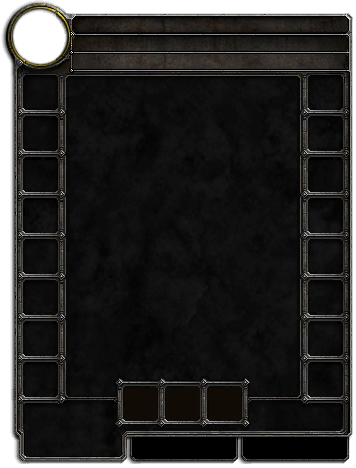
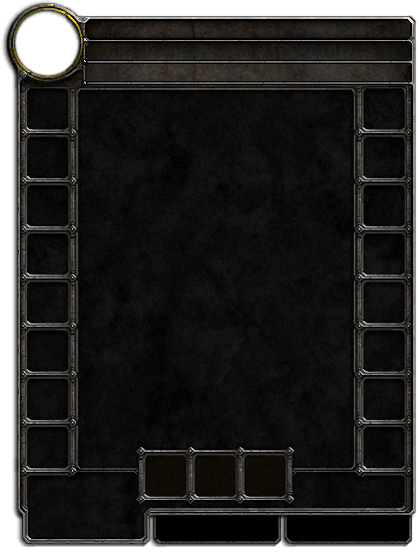
wcf_revision_nr = [198] 'Update info char'

diff --git a/themes/templates/wcf.css b/themes/templates/wcf.css
@@ -35,7 +35,7 @@ IMG.sell      {width: 20px;}
 IMG.auction   {width: 32px;}
 div.auction   {FONT-SIZE: 12; font-weight: 800;}
 IMG.set       {width: 24px;}
-IMG.armory    {width: 38px;}
+IMG.armory    {width: 43px;}
 div.armory    {font-size: 14; font-weight: 800;}
 IMG.guildb    {width: 39px;}
 div.guildb    {font-size: 14; font-weight: 800;}

diff --git a/include/functions.php b/include/functions.php
@@ -116,7 +116,7 @@
 		{
 			global $_SESSION;
 			selectdb(characters_r.$_SESSION['realmd_id']);
- 			$data = db_assoc(db_query("SELECT $fields FROM `character_stats` WHERE `guid`='".$character_id."'"));
+ 			$data = db_assoc(db_query("SELECT * FROM `character_stats` WHERE `guid`='".$character_id."'"));
 			if ($data) { return $data; } else { return false; }		
 		}
 
@@ -273,17 +273,47 @@
 			if ($item_data = get_item_data($guid)) { show_item_by_data($item_data, $style, $posx, $posy); }
 		}
 
-	function show_item_from_char($id, $guid, $style='item', $posx=0, $posy=0)
+	function empty_show_item_from_char($style='item', $posx=0, $posy=0, $empty_item="")
+		{
+ 			switch ($empty_item): 
+				case ("head"):  	$icon = IMAGES_PI."empty_icon/head.png";   	break;
+				case ("neck"):  	$icon = IMAGES_PI."empty_icon/neck.png";   	break;
+				case ("shoulder"):  	$icon = IMAGES_PI."empty_icon/shoulder.png";   	break;
+				case ("back"):  	$icon = IMAGES_PI."empty_icon/back.png";   	break;
+				case ("chest"):  	$icon = IMAGES_PI."empty_icon/chest.png";   	break;
+				case ("shirt"):  	$icon = IMAGES_PI."empty_icon/shirt.png";   	break;
+				case ("tabard"):  	$icon = IMAGES_PI."empty_icon/tabard.png";   	break;
+				case ("wrist"):  	$icon = IMAGES_PI."empty_icon/wrist.png";   	break;
+				case ("gloves"):  	$icon = IMAGES_PI."empty_icon/gloves.png";   	break;
+				case ("belt"):  	$icon = IMAGES_PI."empty_icon/belt.png";   	break;
+				case ("legs"):  	$icon = IMAGES_PI."empty_icon/legs.png";   	break;
+				case ("feet"):  	$icon = IMAGES_PI."empty_icon/feet.png";   	break;
+				case ("finger"):  	$icon = IMAGES_PI."empty_icon/finger.png";   	break;
+				case ("trinket"):  	$icon = IMAGES_PI."empty_icon/trinket.png";   	break;
+				case ("main"):  	$icon = IMAGES_PI."empty_icon/main.png";   	break;
+				case ("off"):  		$icon = IMAGES_PI."empty_icon/off.png";   	break;
+				case ("ranged"):  	$icon = IMAGES_PI."empty_icon/ranged.png";   	break;
+			endswitch;
+
+			if ($posx OR $posy) { $position.= 'style="position: absolute; left: '.$posx.'px; top: '.$posy.'px; border: 0px;"'; }
+			if (empty($position)) { $position = "style=\"position: relative; left: 0px;top: 0px; border: 0px;float: left;\""; }
+			echo"\n<div class=$style $position><img class='".$style."' src='".$icon."'></div>";
+		}
+
+	function show_item_from_char($id, $guid, $style='item', $posx=0, $posy=0, $empty_item)
 		{
 			global $_SESSION;
-			if ($id == 0) {  return; }
-			selectdb(characters_r.$_SESSION['realmd_id']);
-			$item_data = db_assoc(db_query("SELECT `guid` FROM `item_instance`
-							WHERE `owner_guid`='".$guid."' AND (SUBSTRING_INDEX( SUBSTRING_INDEX(`data` , ' ' , 9) , ' ' , -1 )+0)='".$guid."' AND (SUBSTRING_INDEX( SUBSTRING_INDEX(`data` , ' ' , 4) , ' ' , -1 )+0)='".$id."'"));
-
-			reset($item_data);
-			$item_data =  current($item_data);
-			if ($item_data = get_item_data($item_data)) { show_item_by_data($item_data, $style, $posx, $posy); }
+			if ($id != 0)
+				{
+					selectdb(characters_r.$_SESSION['realmd_id']);
+					$item_data = db_assoc(db_query("SELECT `guid` FROM `item_instance`
+									WHERE `owner_guid`='".$guid."' AND (SUBSTRING_INDEX( SUBSTRING_INDEX(`data` , ' ' , 9) , ' ' , -1 )+0)='".$guid."' AND (SUBSTRING_INDEX( SUBSTRING_INDEX(`data` , ' ' , 4) , ' ' , -1 )+0)='".$id."'"));
+		
+					reset($item_data);
+					$item_data =  current($item_data);
+					if ($item_data = get_item_data($item_data)) { show_item_by_data($item_data, $style, $posx, $posy); }
+				}
+			else { empty_show_item_from_char($style, $posx, $posy, $empty_item); }
 		}
 
 	//======================================================================================================

diff --git a/include/include_characters_3d.php b/include/include_characters_3d.php
@@ -45,7 +45,7 @@
 function show_player_3d($char, $char_data){
 ?>
  <div id="model_scene" align="center">
- <object id="wowhead" type="application/x-shockwave-flash" data="http://static.wowhead.com/modelviewer/ModelView.swf" height="300px" width="230px"> 
+ <object id="wowhead" type="application/x-shockwave-flash" data="http://static.wowhead.com/modelviewer/ModelView.swf" height="353px" width="273px"> 
  <param name="quality" value="high">
  <param name="allowscriptaccess" value="always">
  <param name="menu" value="false">

diff --git a/acp/show_character.php b/acp/show_character.php
@@ -17,7 +17,7 @@
 	$guid = intval(@$_REQUEST['player']);
 	$tab  = @$_REQUEST['tab'];
 	$char = get_character($guid);
-	//$char_stats = get_character_stats($guid);
+	$char_stats = get_character_stats($guid);
 	opentable();
 
 	if ($char)
